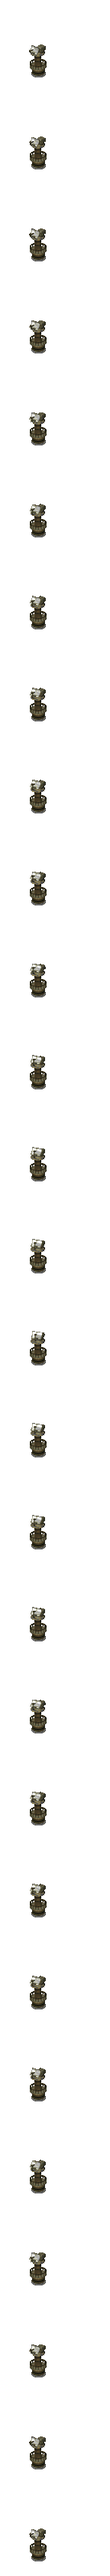
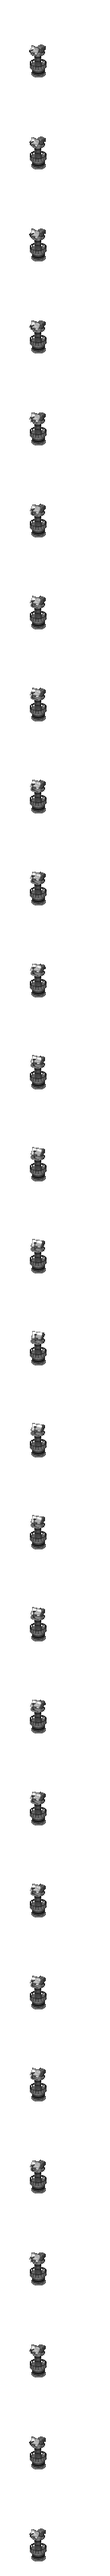
aotmod: ORBC (Orbital Command) Age-2 Gemini-Sprite + Uplink-Addon-Repositionierung
Neuer Gemini-Render ersetzt den alten TS-GAPLUG-Sprite. Player-Color-Maske
nachgebessert (zu enge Value/Saturation-Schwelle liess den dunklen Schatten-
bereich des blauen Panels ungefärbt zurück -> jetzt vollständige Abdeckung).
Ion-Cannon- und Zone-Trooper-Drop-Uplink-Addons auf die zwei neuen Sockel-
Positionen umgerechnet und nach Screenshot-Feedback mehrfach feinjustiert.
Ion-Cannon-Sockel zusätzlich von GDI-Gold auf Gebäude-Grau umgefärbt (Dish
bleibt weiss).

Changed region(s): [[0.2778, 0.0, 0.4167, 1.0]]

diff --git a/mods/management/KANBAN.md b/mods/management/KANBAN.md
@@ -55,13 +55,13 @@
   - [ ] APC -> AAPC / Mine Layer
   - [ ] MTNK -> Predator / Titan
   - [x] MLRS -> Hover MLRS & Hover AA / Jugg
-- [ ] Upscaling Building sprites
+- [ ] Upscaling Building sprites (TS)
   Tiberian Sun voxel assets
   - [x] GDI powerplant turbines
   - [x] NOD radar dome
   - [ ] NOD temple
   - [ ] NOD secret shrine (pyramid)
-  - [ ] GDI orbital command (uplink)
+  - [x] GDI orbital command (uplink)
   - [ ] GDI tech centre
   - [ ] NOD tech centre
   - [ ] NOD missile silo
@@ -70,7 +70,7 @@
   - [ ] GDI barracks
   - [ ] NOD hand
   - [x] GDI radar
-  - [ ] GDI firestorm generator
+  - [x] GDI firestorm generator
   - [ ] FS mobile war factory (LITE)
   - [x] Construction yard
   - [x] Refinery
